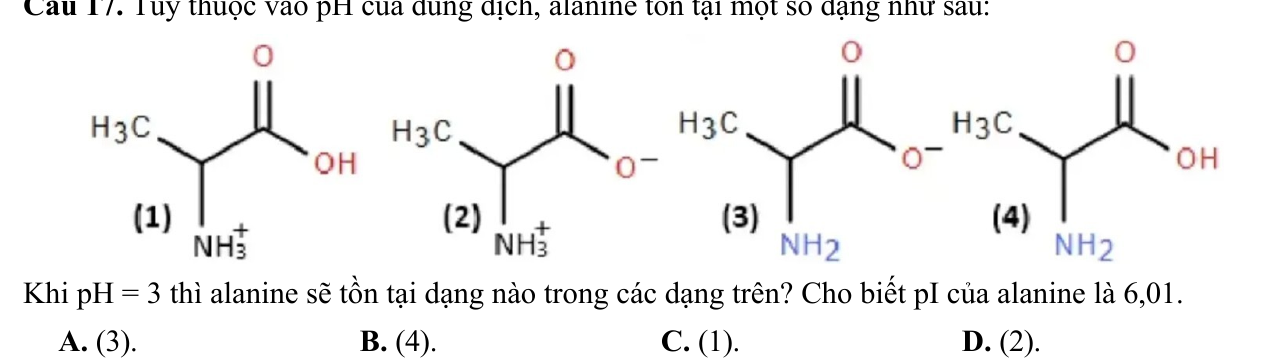
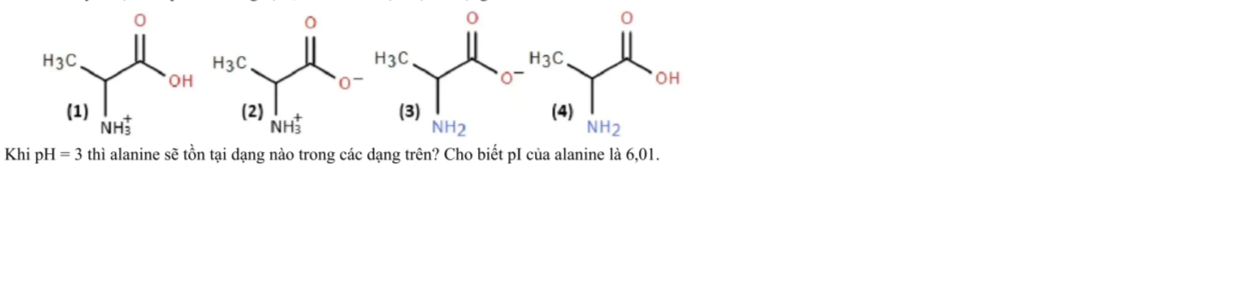
Clean exam source crops

diff --git a/features/giup-cy/exam-assets.ts b/features/giup-cy/exam-assets.ts
@@ -13,7 +13,7 @@ export type ExamDocumentAsset = {
 };
 
 const ASSET_VERSION = "student-clean-20260516";
-const CROP_ASSET_VERSION = "question-crops-20260516";
+const CROP_ASSET_VERSION = "question-crops-20260516b";
 
 function buildPages(basePath: string, count: number, width: number, height: number, padded = true) {
   return Array.from({ length: count }, (_, index) => {
@@ -59,8 +59,11 @@ export function getQuestionSourceAsset(exam: Pick<GiupCyExamRow, "slug" | "sourc
 
   if (source.includes("cam-pha")) {
     const cropSizes: Record<number, Pick<ExamPageAsset, "url" | "width" | "height">> = {
-      17: { url: `/exam-assets/cam-pha-lan-1/crops/q17.png?v=${CROP_ASSET_VERSION}`, width: 1285, height: 360 },
+      17: { url: `/exam-assets/cam-pha-lan-1/crops/q17.png?v=${CROP_ASSET_VERSION}`, width: 1245, height: 290 },
       19: { url: `/exam-assets/cam-pha-lan-1/crops/q19.png?v=${CROP_ASSET_VERSION}`, width: 1285, height: 720 },
+      20: { url: `/exam-assets/cam-pha-lan-1/crops/q20.png?v=${CROP_ASSET_VERSION}`, width: 1210, height: 75 },
+      21: { url: `/exam-assets/cam-pha-lan-1/crops/q21.png?v=${CROP_ASSET_VERSION}`, width: 1210, height: 390 },
+      22: { url: `/exam-assets/cam-pha-lan-1/crops/q22.png?v=${CROP_ASSET_VERSION}`, width: 970, height: 165 },
       25: { url: `/exam-assets/cam-pha-lan-1/crops/q25.png?v=${CROP_ASSET_VERSION}`, width: 1225, height: 285 },
       26: { url: `/exam-assets/cam-pha-lan-1/crops/q26.png?v=${CROP_ASSET_VERSION}`, width: 1195, height: 710 },
       27: { url: `/exam-assets/cam-pha-lan-1/crops/q27.png?v=${CROP_ASSET_VERSION}`, width: 1265, height: 690 }
@@ -68,9 +71,22 @@ export function getQuestionSourceAsset(exam: Pick<GiupCyExamRow, "slug" | "sourc
 
     const crop = cropSizes[questionNumber];
     if (crop) return { pageNumber: estimateQuestionPage(questionNumber, documentAsset.pages.length), ...crop };
+
+    return null;
   }
 
-  return documentAsset.pages[estimateQuestionPage(questionNumber, documentAsset.pages.length) - 1] ?? null;
+  if (source.includes("hung-yen")) {
+    const cropSizes: Record<number, Pick<ExamPageAsset, "url" | "width" | "height">> = {
+      20: { url: `/exam-assets/hung-yen-hki/crops/q20.png?v=${CROP_ASSET_VERSION}`, width: 1240, height: 475 }
+    };
+
+    const crop = cropSizes[questionNumber];
+    if (crop) return { pageNumber: estimateQuestionPage(questionNumber, documentAsset.pages.length), ...crop };
+
+    return null;
+  }
+
+  return null;
 }
 
 export function estimateQuestionPage(questionNumber: number, pageCount: number) {

diff --git a/features/giup-cy/exam-taker.tsx b/features/giup-cy/exam-taker.tsx
@@ -353,16 +353,15 @@ function QuestionCard({
       <PromptContent text={question.prompt} />
 
       {needsSource ? (
-        <div className="mt-4 overflow-hidden rounded-2xl border border-border-soft bg-white">
-          <div className="border-b border-border-soft px-4 py-2 text-sm font-semibold text-text-secondary">Hình/bảng/sơ đồ từ đề gốc</div>
-          <div className="max-h-[680px] overflow-auto bg-slate-100 p-3">
+        <div className="mt-4 overflow-hidden rounded-xl border border-border-soft bg-white">
+          <div className="max-h-[680px] overflow-auto bg-white p-3">
             <Image
               src={sourcePage.url}
-              alt={`Trang gốc liên quan đến câu ${question.question_number}`}
+              alt={`Minh họa cho câu ${question.question_number}`}
               width={sourcePage.width}
               height={sourcePage.height}
               unoptimized
-              className="mx-auto h-auto w-full max-w-[980px] rounded-lg bg-white shadow-sm"
+              className="mx-auto h-auto w-full max-w-[980px] bg-white"
             />
           </div>
         </div>